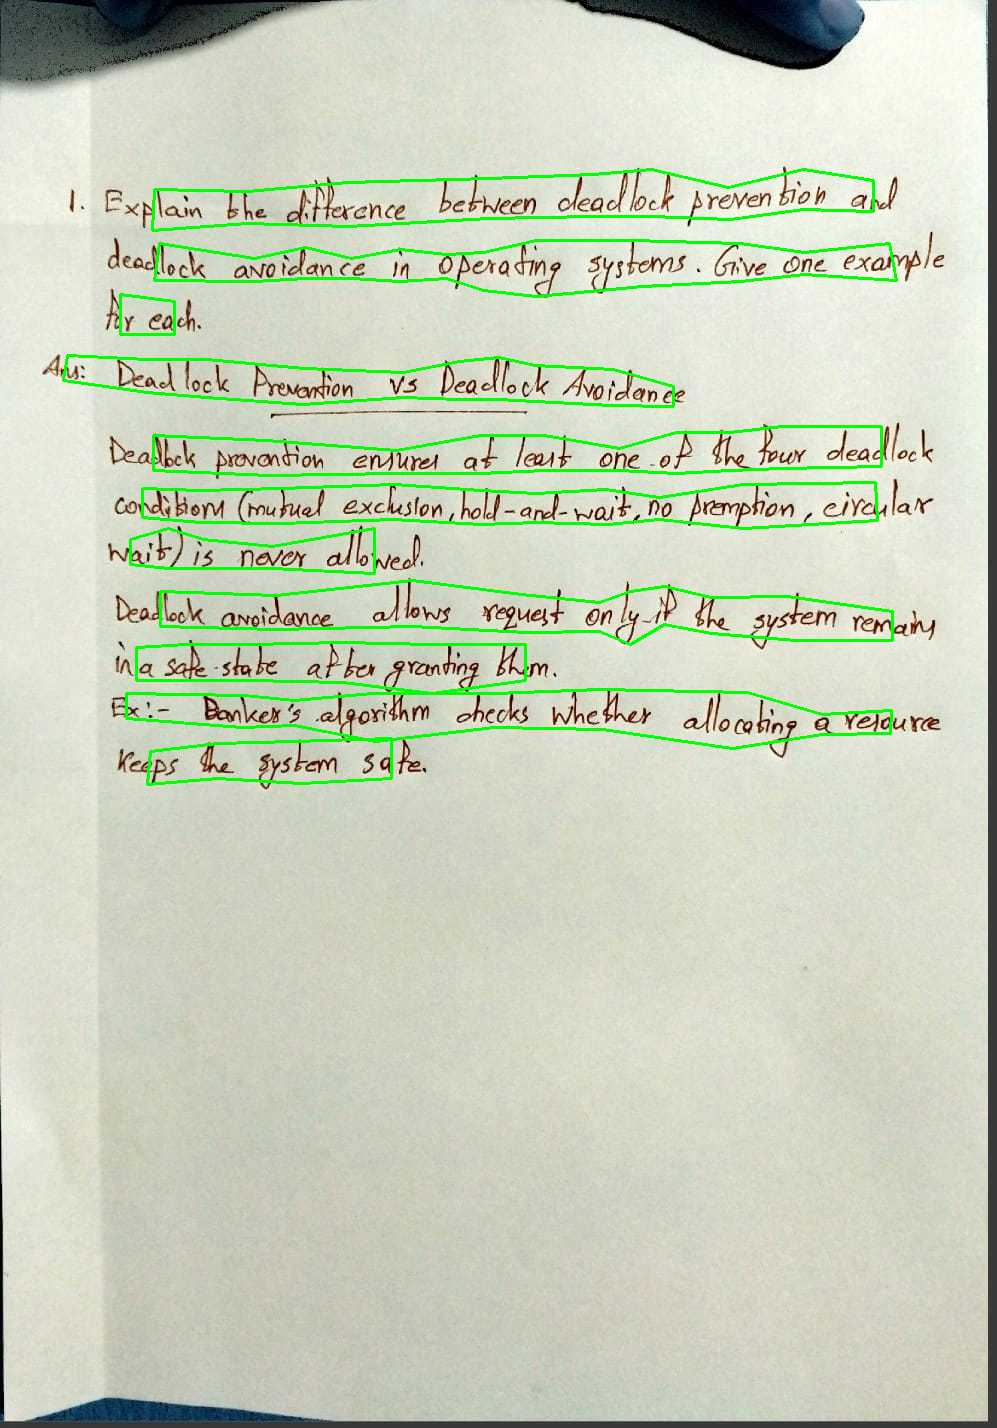
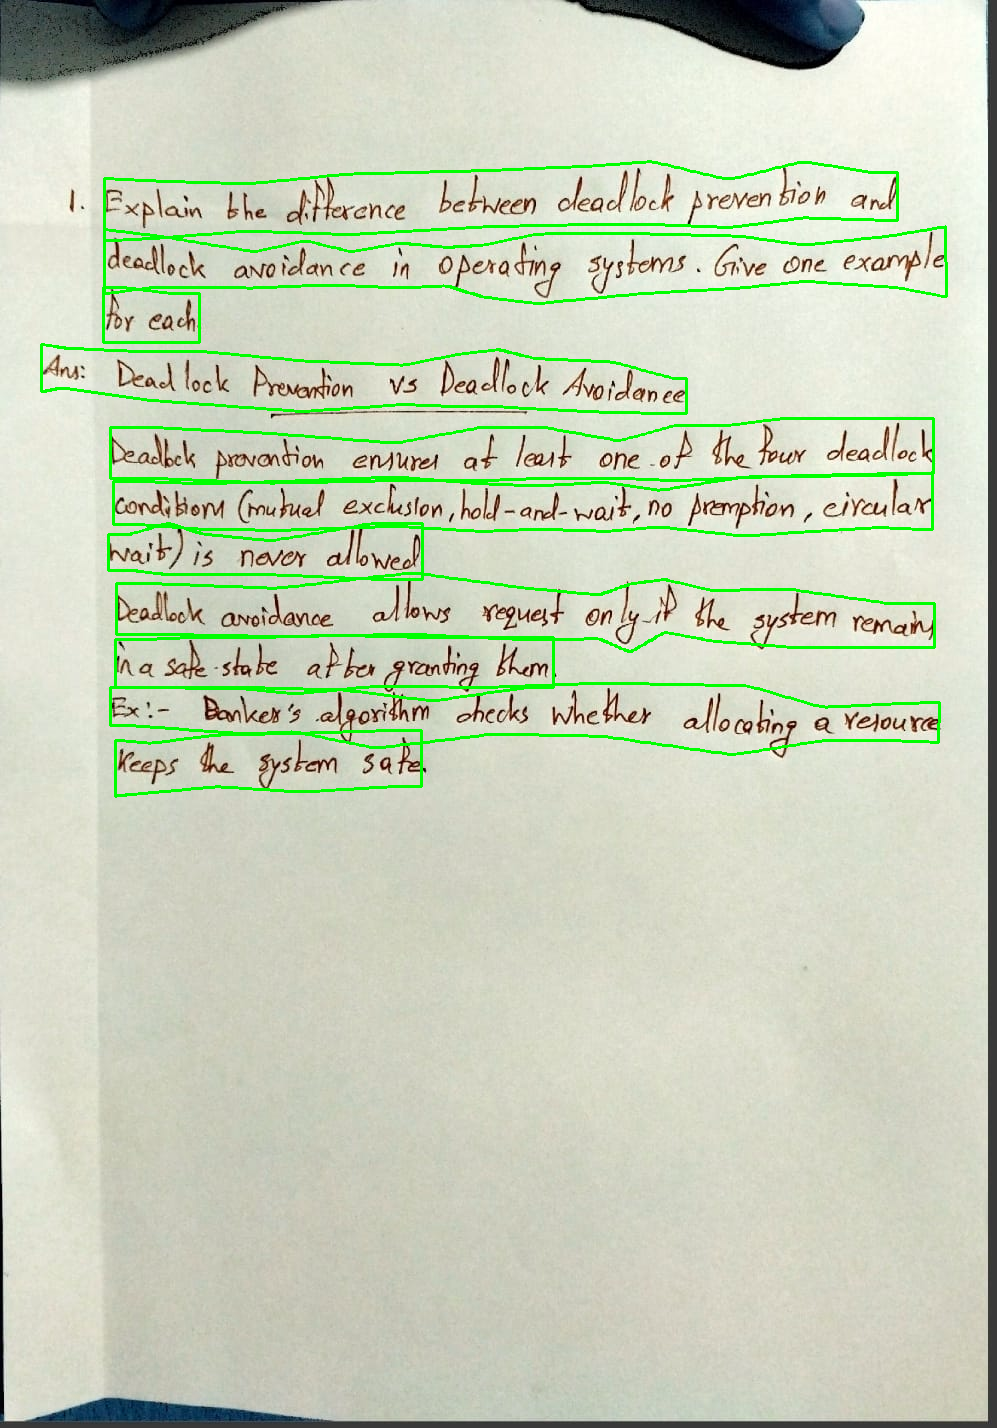
curved line bounds painted on image

diff --git a/src/handwriting_ocr_pipeline/utils/file_utils.py b/src/handwriting_ocr_pipeline/utils/file_utils.py
@@ -1,7 +1,6 @@
 import numpy as np
 import cv2
-import alphashape
-from shapely.geometry import Polygon, MultiPolygon
+
 from handwriting_ocr_pipeline.config.paths import OUTPUTS_DIR
 import handwriting_ocr_pipeline.config.settings as settings
 
@@ -72,38 +71,71 @@ def save_text(output_path, text):
         f.write(text)
     print(f"[+] Saved as text file: {output_path}")
 
-def draw_curved_line_envelopes(image, lines, save_path, thickness=2):
+def draw_curved_line_envelopes(image, lines, save_path):
     img = image.copy()
 
     for line in lines:
         if len(line) < 2:
             continue
 
-        # left → right
         line = sorted(line, key=lambda b: b[:, 0].mean())
 
-        upper = []
-        lower = []
+        upper, lower = [], []
 
         for box in line:
-            top_mid, bottom_mid = top_bottom_midpoints(box)
+            pts = box[np.argsort(box[:, 1])]
+            top_mid = pts[:2].mean(axis=0)
+            bot_mid = pts[-2:].mean(axis=0)
+
             upper.append(top_mid)
-            lower.append(bottom_mid)
+            lower.append(bot_mid)
 
-        contour = np.array(
-            upper + lower[::-1],
-            dtype=np.int32
-        )
+        # first and last boxes
+        first_box = line[0]
+        last_box = line[-1]
 
-        cv2.polylines(
-            img,
-            [contour],
-            isClosed=True,
-            color=(0, 255, 0),
-            thickness=thickness
-        )
+        # anchor endpoints
+        left_top, left_bot = endpoint_anchors(first_box, "left")
+        right_top, right_bot = endpoint_anchors(last_box, "right")
+
+        # prepend & append
+        upper = [left_top] + upper + [right_top]
+        lower = [left_bot] + lower + [right_bot]
+
+        # densify
+        upper = densify(upper, samples_per_segment=6)
+        lower = densify(lower, samples_per_segment=6)
+
+        # smooth
+        upper = chaikin(upper, iterations=2)
+        lower = chaikin(lower, iterations=2)
+
+        line_height = estimate_line_height(line)
+        padding = 0.2 * line_height   # tune: 0.25–0.45 works well
+
+        upper[:, 1] -= padding
+        lower[:, 1] += padding
+
+        contour = np.vstack([upper, lower[::-1]]).astype(np.int32)
+
+        cv2.polylines(img, [contour], True, (0, 255, 0), 2)
 
     cv2.imwrite(save_path, img)
+
+def estimate_line_height(line):
+    heights = [(b[:, 1].max() - b[:, 1].min()) for b in line]
+    return np.median(heights)
+
+def endpoint_anchors(box, side="left"):
+    if side == "left":
+        x = box[:, 0].min()
+    else:
+        x = box[:, 0].max()
+
+    top_y = box[:, 1].min()
+    bot_y = box[:, 1].max()
+
+    return np.array([x, top_y]), np.array([x, bot_y])
 
 
 def top_bottom_midpoints(box):
@@ -118,38 +150,20 @@ def top_bottom_midpoints(box):
 
     return top_mid, bottom_mid
 
+def densify(points, samples_per_segment=5):
+    dense = []
+    for p1, p2 in zip(points[:-1], points[1:]):
+        for t in np.linspace(0, 1, samples_per_segment, endpoint=False):
+            dense.append(p1 * (1 - t) + p2 * t)
+    dense.append(points[-1])
+    return dense
 
-def draw_concave_hull_lines(
-        image, 
-        lines, 
-        save_path=OUTPUTS_DIR / settings.hullLinesOutputImage, 
-        alpha=0.02):
-    img = image.copy()
-
-    for line in lines:
-        # collect all points from all boxes
-        points = np.concatenate(line, axis=0)
-
-        # convert to list of tuples for alphashape
-        pts = [(float(x), float(y)) for x, y in points]
-
-        if len(pts) < 4:
-            continue  # hull not possible
-
-        hull = alphashape.alphashape(pts, alpha)
-
-        if hull.is_empty:
-            continue
-
-        # alphashape may return Polygon or MultiPolygon
-        polygons = (
-            [hull] if isinstance(hull, Polygon)
-            else list(hull.geoms) if isinstance(hull, MultiPolygon)
-            else []
-        )
-
-        for poly in polygons:
-            coords = np.array(poly.exterior.coords, dtype=np.int32)
-            cv2.polylines(img, [coords], isClosed=True, color=(0, 255, 0), thickness=2)
-
-    cv2.imwrite(save_path, img)
+def chaikin(points, iterations=2):
+    pts = np.array(points)
+    for _ in range(iterations):
+        new_pts = []
+        for p, q in zip(pts[:-1], pts[1:]):
+            new_pts.append(0.75 * p + 0.25 * q)
+            new_pts.append(0.25 * p + 0.75 * q)
+        pts = np.array(new_pts)
+    return pts

diff --git a/src/handwriting_ocr_pipeline/main.py b/src/handwriting_ocr_pipeline/main.py
@@ -38,7 +38,6 @@ def main():
     utils.draw_boxes(image, boxes, save_path=OUTPUTS_DIR / settings.wordsOutputImageFile)
     utils.draw_boxes_of_lines(image, lines, save_path=OUTPUTS_DIR / settings.linesOutputImage)
     utils.draw_curved_line_envelopes(image, lines, save_path=OUTPUTS_DIR / settings.curvedLinesOutputImage)
-    utils.draw_concave_hull_lines(image, lines, save_path=OUTPUTS_DIR / settings.hullLinesOutputImage)
 
     recognized_lines = []
 
